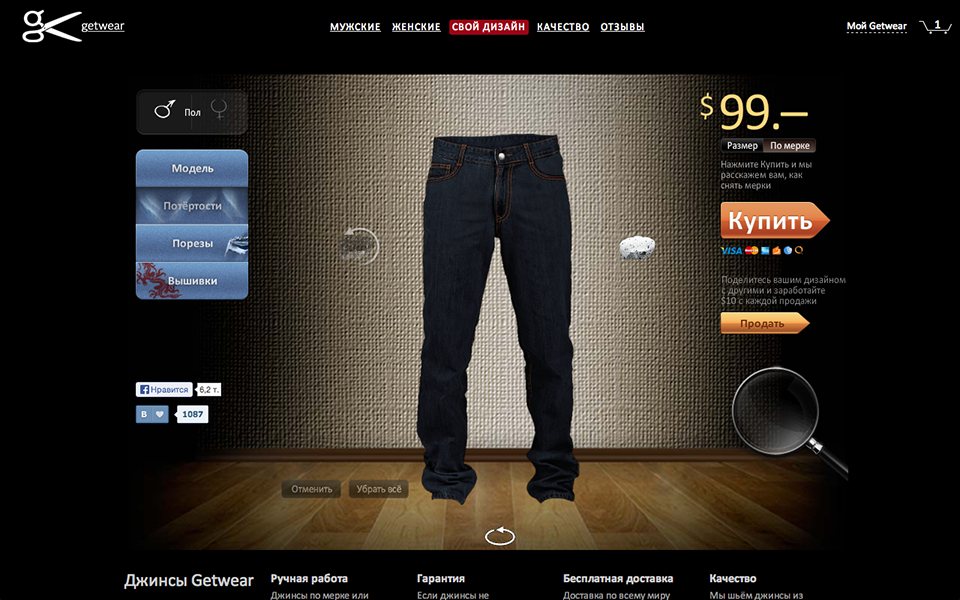
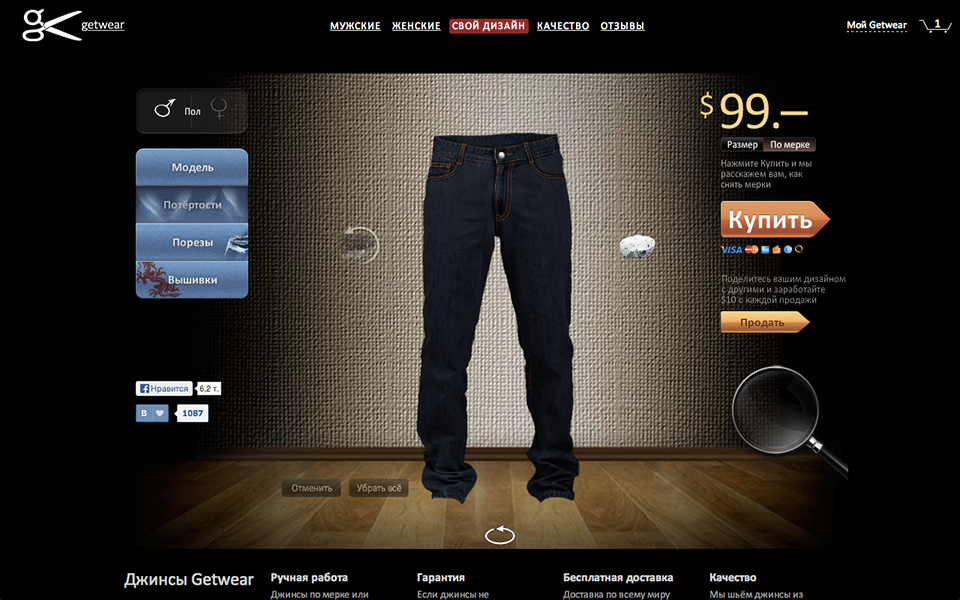
Убрал однопиксельные дёргания в нескольких местах

diff --git a/movie/index.html b/movie/index.html
@@ -63,8 +63,7 @@
                             ['moveTo', [490, 25], {'duration': 1000}],
                             ['addClass', 'cursor-pointer'],
                             ['wait', 700],
-                            'click',
-                            ['removeClass', 'cursor-pointer']
+                            'click'
                         ]
                     }];">
                     <div class="subtitles" style="top: 60%; opacity: 200; display: block;">
@@ -81,6 +80,7 @@
                         ]
                      }, {
                         'cursor': [
+                            ['removeClass', 'cursor-pointer'],
                             ['wait', 700],
                             ['moveTo', [162, 108]],
                             ['addClass', 'cursor-pointer'],
@@ -209,7 +209,7 @@
                         ]
                      }, {
                         'cursor': [
-                            ['wait', 900],
+                            ['wait', 1500],
                             ['moveTo', [185, 205]],
                             ['addClass', 'cursor-pointer'],
                             ['wait', 900],
@@ -243,6 +243,11 @@
 
                 <div id="craft" data-img="i/how-to-buy/03-craft.png" class="screencast"
                      onclick="return [{
+                        'cursor': [
+                            ['removeClass', 'cursor-pointer']
+                        ]
+                     },
+                     {
                         'subtitles': [
                             ['fadeTo', 0, 1],
                             ['wait', 900],
@@ -252,8 +257,7 @@
                         ]
                      }, {
                         'cursor': [
-                            ['removeClass', 'cursor-pointer'],
-                            ['moveTo', [637, 248]],
+                            ['moveTo', [637, 247]],
                             ['addClass', 'cursor-pointer']
                         ]
                      }, {
@@ -374,8 +378,7 @@
                             ['addClass', 'cursor-pointer'],
                             ['moveTo', [194, 168], {'easing': 'swing', 'speed': '40'}],
                             ['wait', 900],
-                            'click',
-                            ['removeClass', 'cursor-pointer']
+                            'click'
                         ]
                      }];">
                     <div class="subtitles" style="top: 46%;opacity: 0; display: block;">
@@ -411,6 +414,10 @@
 
                 <div id="result" data-img="i/how-to-buy/04-result.png" class="screencast"
                      onclick="return [{
+                        'cursor': [
+                            ['removeClass', 'cursor-pointer']
+                        ]
+                     }, {
                         'subtitles': [
                             ['fadeTo', 0, 1],
                             ['wait', 1500],
@@ -463,7 +470,6 @@
                      }, {
                         'cursor': [
                             ['wait', 900],
-                            ['removeClass', 'cursor-pointer'],
                             ['moveTo', [500, 476]],
                             ['addClass', 'cursor-pointer'],
                             ['wait', 900],

diff --git a/movie/css/screencast.css b/movie/css/screencast.css
@@ -23,12 +23,14 @@
     position: absolute;
     width: 410px;
     height: 411px;
-    left: 273px;
-    top: 90px;
+    left: 274px;
+    top: 89px;
 }
 
 .model-result-back {
     width: 430px;
+    margin-left: -1px;
+    margin-top: 1px;
 }
 
 .type {
@@ -58,7 +60,7 @@
 .craft-tool {
     position: absolute;
     left: 614px;
-    top: 234px;
+    top: 233px;
     width: 48px;
     height: 55px;
 }
@@ -73,7 +75,7 @@
 
 .craft-result-1 {
     position: absolute;
-    top: 162px;
+    top: 161px;
     left: 510px;
     width: 69px;
     height: 181px;
@@ -81,7 +83,7 @@
 
 .craft-result-2 {
     position: absolute;
-    top: 353px;
+    top: 352px;
     left: 528px;
     width: 51px;
     height: 115px;
@@ -97,7 +99,7 @@
 
 .craft-result-4 {
     position: absolute;
-    top: 342px;
+    top: 341px;
     left: 418px;
     width: 57px;
     height: 126px;
